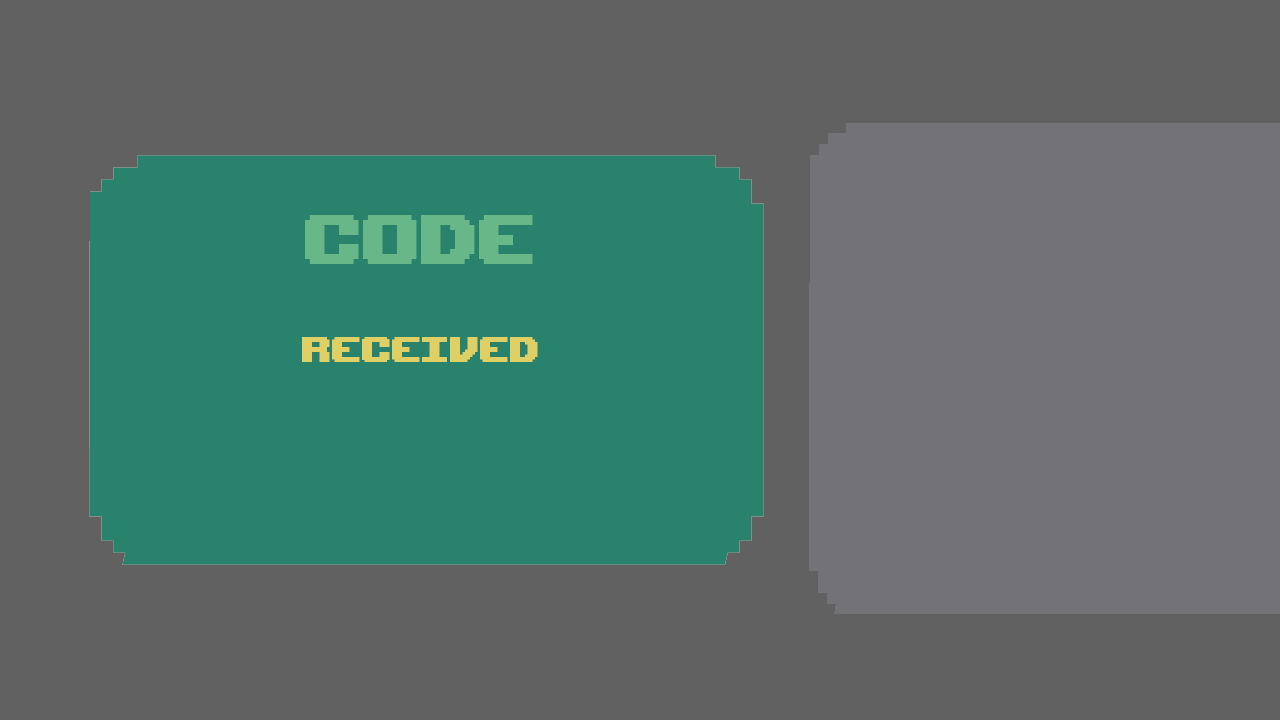
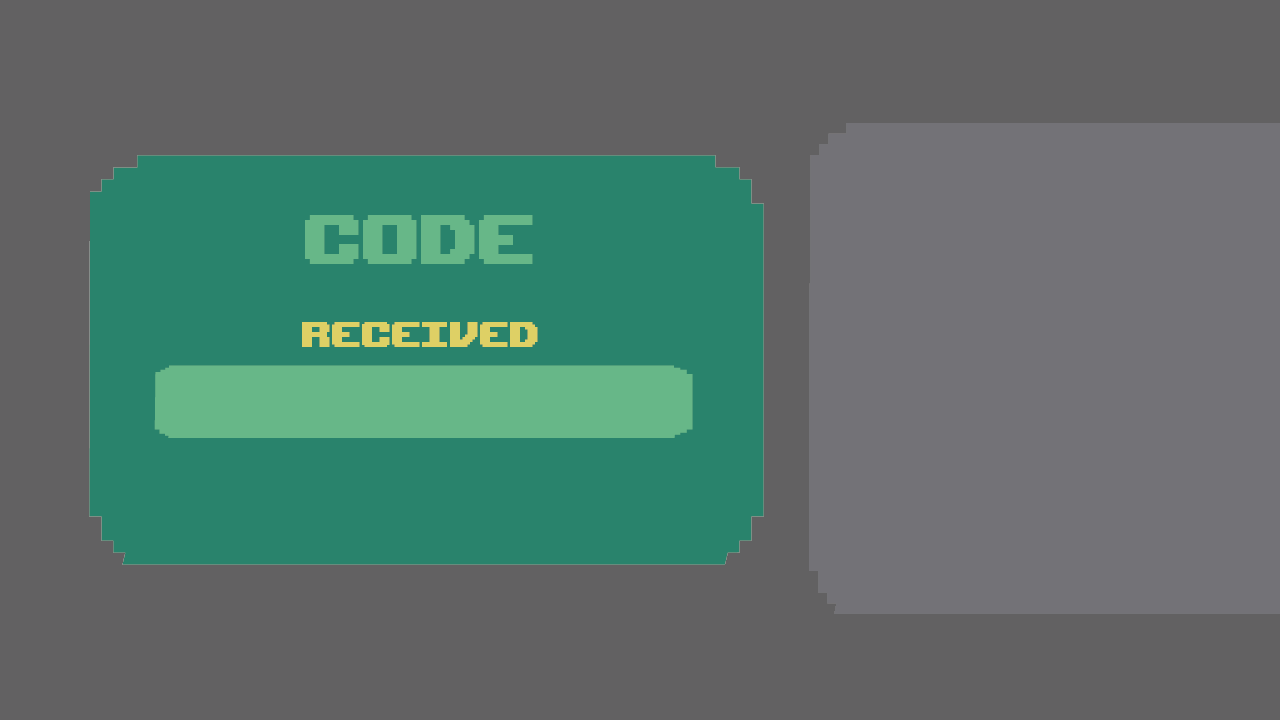
Restart corregido y code received mejorado

Changed region(s): [[0.0938, 0.4278, 0.5625, 0.6111]]

diff --git a/core/src/com/mygdx/menudemo/ShopScreen.java b/core/src/com/mygdx/menudemo/ShopScreen.java
@@ -114,6 +114,7 @@ class ShopScreen extends ScreenAdapter {
     private Texture yesQuitPressTexture;
     private Texture noQuitTexture;
     private Texture noQuitPressTexture;
+    private String skinDecode;
 
     private enum STATE{
         NORMAL, RUSURE, NOCOINS, CODE, QUIT
@@ -554,10 +555,12 @@ class ShopScreen extends ScreenAdapter {
         if (code.compareTo("1234") == 0 && !hulkBought){
             createCodeValidationPanel(true);
             costo = 150;
+            skinDecode = "Hulk";
             savePreferences();
         }else if (code.compareTo("4928") == 0 && !ricardoBought){
             createCodeValidationPanel(true);
             costo = 400;
+            skinDecode = "Ricardo";
             savePreferences();
         }else{
             createCodeValidationPanel(false);
@@ -568,6 +571,11 @@ class ShopScreen extends ScreenAdapter {
         stageCode.clear();
         if(validation){
             codePanelTexture = new Texture(Gdx.files.internal("shop/validCode.png"));
+            Label.LabelStyle labelStyle = new Label.LabelStyle();
+            labelStyle.font = bitmapFont;
+            inputLabel = new Label("", labelStyle);
+            inputLabel.setPosition(WORLD_WIDTH/3-50, WORLD_HEIGHT/2-inputLabel.getHeight()/2);
+            inputLabel.setText(skinDecode);
 
         }else{
             codePanelTexture = new Texture(Gdx.files.internal("shop/invalidCode.png"));
@@ -583,6 +591,7 @@ class ShopScreen extends ScreenAdapter {
                 state = STATE.NORMAL;
             }
         });
+
 
         ceroButtonTexture = new Texture(Gdx.files.internal("shop/0.png"));
         oneButtonTexture = new Texture(Gdx.files.internal("shop/1.png"));
@@ -633,6 +642,7 @@ class ShopScreen extends ScreenAdapter {
 
         stageCode.addActor(codePanel);
         stageCode.addActor(cross);
+        stageCode.addActor(inputLabel);
         stageCode.addActor(number0);
         stageCode.addActor(number1);
         stageCode.addActor(number2);
@@ -754,8 +764,6 @@ class ShopScreen extends ScreenAdapter {
     }
 
     private void drawCodeInput() {
-        //glyphLayout.setText(bitmapFont,code);
-        //bitmapFont.draw(batch, code, WORLD_WIDTH/4, 80);
         inputLabel.setText(code);
     }
 

diff --git a/core/src/com/mygdx/menudemo/level.java b/core/src/com/mygdx/menudemo/level.java
@@ -1105,8 +1105,7 @@ public class level extends ScreenAdapter {
 
     private void restart() {
         loseMusic.stop();
-        menuDemo.setScreen(new level(menuDemo, LEVEL));
-        /*music.play();
+        music.play();
         padCounter = 2;
         levelTimer = 0;
         secondsTimer = 60;
@@ -1125,7 +1124,11 @@ public class level extends ScreenAdapter {
         }
         nonCollisionTimer = 0;
         updateLifesIndicator();
-        finish = false;*/
+        finish = false;
+        animationTimer = 0;
+        looseKiiwX = 20;
+        winingKiiwY = 0;
+        winingKiiwX = WORLD_WIDTH/4;
         }
 
     private void updateObstacles(float delta) {
